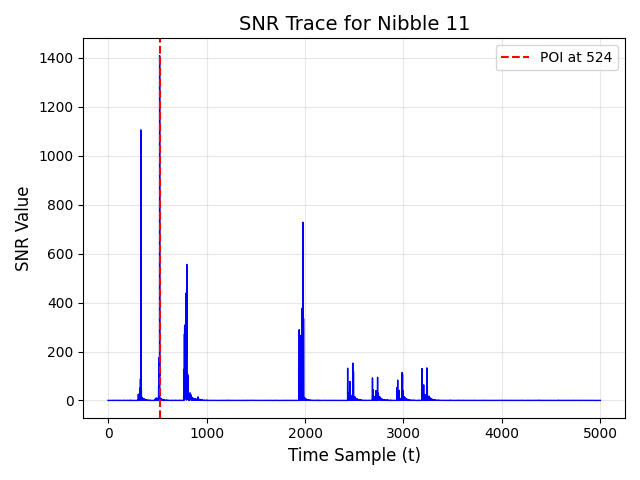
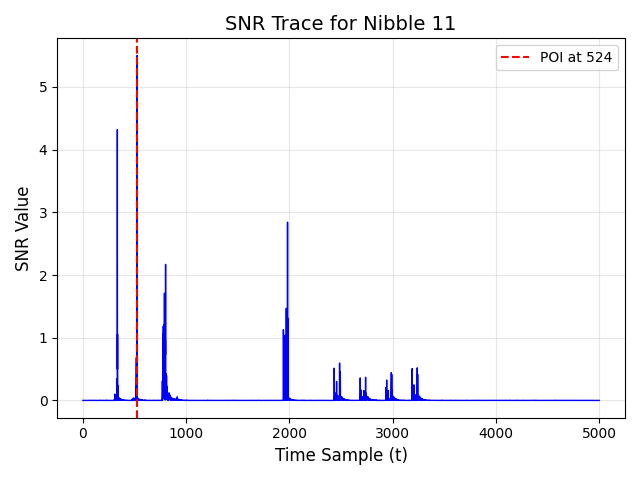
lab 4 fixed

diff --git a/lab-4/main.py b/lab-4/main.py
@@ -44,21 +44,22 @@ for nibble in range(16):
             # Find which traces resulted in this S-box value
             mask = (signals == v)
             group = power_per_time_sample[mask]
-
+            
             if len(group) > 0:
-                group_mean = sum(group) / len(group)
-                group_means.append(group_mean)
-                group_variance = sum((group_mean - el)**2 for el in group) / len(group)
-                group_variances.append(group_variance)
+                group_means.append(np.mean(group))
+                
+                for j in range(len(group)):
+                    group_variances.append(group[j] - group_means[v])                
 
         # SNR Formula: Var(Means) / Mean(Variances)
         groups_mean =  sum(group_means) / len(group_means)
 
-        var_X = sum((groups_mean - el)**2 for el in group_means)
-        var_N = sum(group_variances) / len(group_variances) / len(group_variances)
-
+        var_X = np.var(group_means)
+        var_N = np.var(group_variances)
+      
         snr_values[t] = var_X / var_N
 
+    plt.cla()
     plt.plot(snr_values, color='blue', linewidth=1)
 
     plt.title(f'SNR Trace for Nibble {NIBBLE}', fontsize=14)
@@ -69,6 +70,7 @@ for nibble in range(16):
         poi = np.argsort(snr_values)[-3]
     else:
         poi = np.argmax(snr_values)
+    print(snr_values[poi])
     plt.axvline(x=poi, color='red', linestyle='--', label=f'POI at {poi}')
     plt.legend()
 
